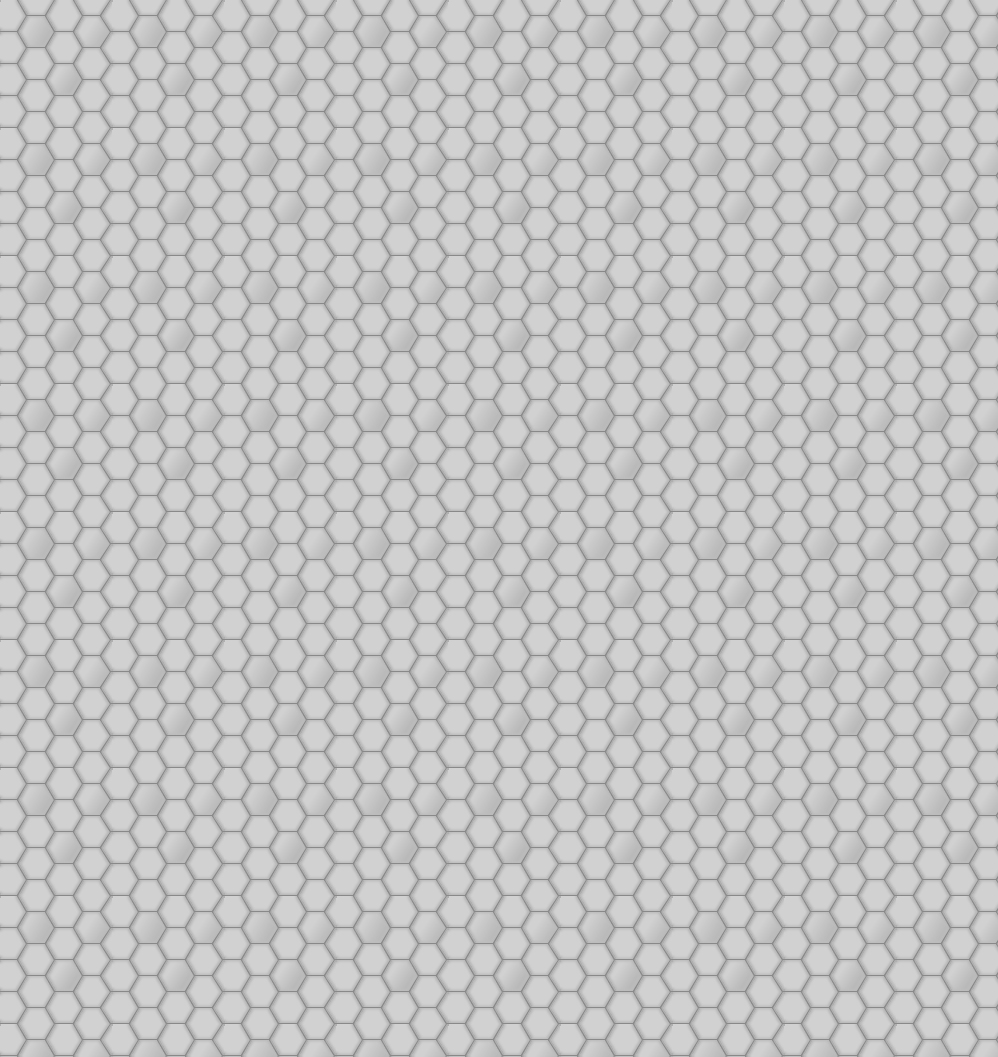
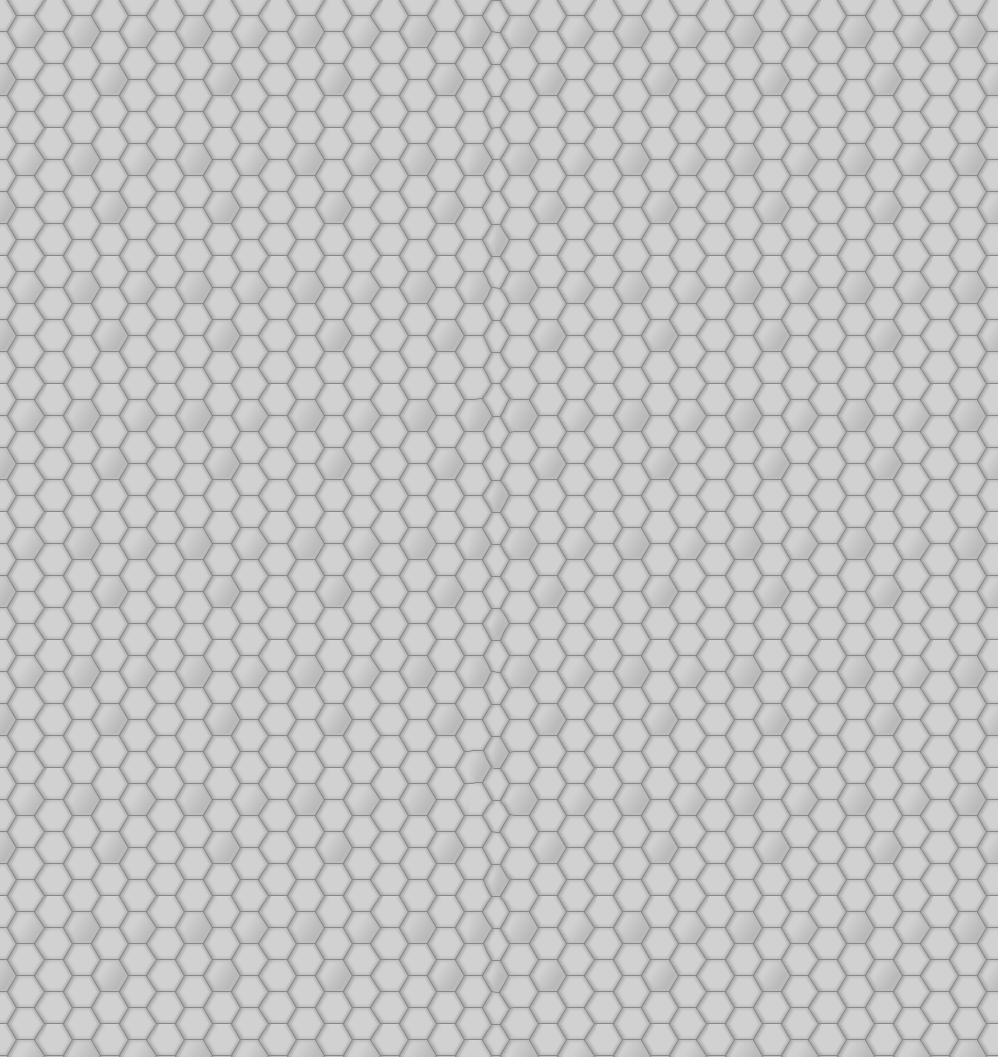
background image fix

Changed region(s): [[0.0, 0.0, 1.0, 1.0]]

diff --git a/theme/stylesheet.css b/theme/stylesheet.css
@@ -1,6 +1,6 @@
 /*  phpBB3 Style Sheet
     --------------------------------------------------------------
-	Style name:			HexagonRebornLight
+	Style name:			HexagonReborn
 	Based on style:		prosilver
 	Original author:	MannixMD @MannixMD
 	Modified by:		phpBB Limited ( https://www.phpbb.com/ )
@@ -19,4 +19,4 @@
 @import url("icons.css?v=3.2");
 @import url("colours.css?v=3.2");
 @import url("responsive.css?v=3.2");
-@import url("hexagon.css");
+@import url("hexagon.css?v=3.2");

diff --git a/theme/icons.css b/theme/icons.css
@@ -53,6 +53,7 @@
 	vertical-align: text-bottom;
 	font-size: 16px;
 }
+
 .arrow-left .icon {
 	float: left;
 }
@@ -92,3 +93,4 @@ blockquote cite:before, .uncited:before {
 .rtl blockquote cite:before, .rtl .uncited:before {
 	content: '\f10e'; /* Font Awesome quote-right */
 }
+

diff --git a/theme/colours.css b/theme/colours.css
@@ -1465,7 +1465,7 @@ a.button.button-icon-only.hexagonbutton {
     color: #ffffff;
 }
 .colorbutton:hover {
-    box-shadow: 0 0 4px #fff;
+    box-shadow: 0 0 4px 5px #fff;
 }
 @media (max-width: 700px){
 .responsivebutton:before {

diff --git a/theme/bidi.css b/theme/bidi.css
@@ -1087,7 +1087,7 @@ li.breadcrumbs span:first-child > a {
 	.captcha-panel dd.captcha {
 		margin-right: 0;
 	}
-	+	
+	
 	.rtl p.responsive-center {
 		float: none;
 		text-align: center;

diff --git a/theme/hexagon.css b/theme/hexagon.css
@@ -362,6 +362,7 @@ dl.panel {
 .colorviolet { background-color: #662d91; }
 
 
+
 .overlay {
     height: 100%;
     width: 0;
